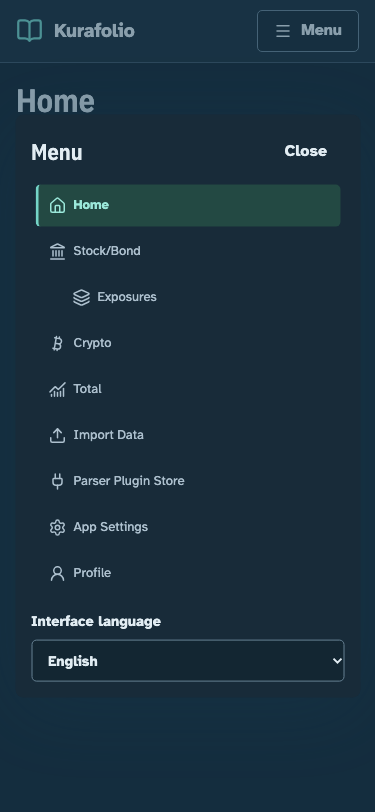
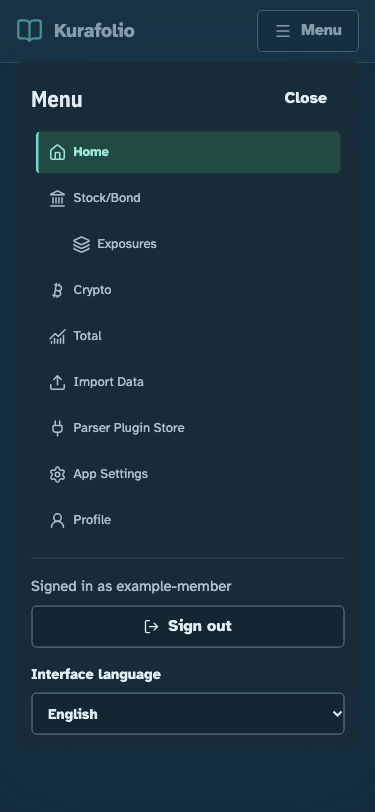
docs: refresh V2 shell screenshots and document the identity pages

diff --git a/docs/capability-status.md b/docs/capability-status.md
@@ -20,7 +20,7 @@ for a documentation change. See [TODO](../TODO.md) for remaining work and
 | UX-P0 | First-use guidance, evidence status/actions and staged import/recovery merged through PR #13: [onboarding tests](../frontend/tests/browser/onboarding.spec.ts), [status tests](../frontend/tests/browser/evidence-status.spec.ts), [import tests](../frontend/tests/browser/import-review.spec.ts), [ticket index](product-ux-review.md). | These bounded slices do not complete the whole UX redesign, numeric BTC-gap/coverage models or every future source-capability view. Deployment is a separate operator action. |
 | Operations/distribution | Source-built Docker context, isolated jobs, full backup/empty-target restore and trusted-host adoption: [context helper](../scripts/docker_context.py), [backup tests](../tests/test_web_backups.py), [operations acceptance](web-release-acceptance.md). | Public prebuilt multi-architecture images/pull-only distribution (WEB-008) remain planned. A source build or local smoke check is not a public registry release or real-instance upgrade. |
 | Optional PG foundation | Explicit candidate repositories, SQL precision/RLS/FKs, atomic receipt/outbox, leases/fencing and operator migrations: [contract](postgres-foundation.md), [repositories](../src/kurafolio/persistence/repositories.py), [tests](../tests/test_postgres_migrations.py). | Opt-in development infrastructure. Current Web/CLI remain SQLite; no authenticated registration, financial booking/valuation, provider cursor, full app recovery or personal migration is activated. Real-PG tests require explicit isolated configuration; skipped tests are not acceptance. |
-| Optional V2 identity | Protected setup/invitation/authentication backend and own-scope candidate/job reads, merged through [PR #19](https://github.com/gh-slee/kurafolio/pull/19): [operator/API contract](web-v2-identity.md), [SQL tests](../tests/test_identity_transactions.py), [HTTP tests](../tests/test_web_v2_api.py). | Opt-in backend; the existing Web/CLI remain on SQLite. Setup/invitation UI remains WL-P0-011. No financial import/export service or existing-data migration is activated. |
+| Optional V2 identity | Protected setup/invitation/authentication backend and own-scope candidate/job reads, merged through [PR #19](https://github.com/gh-slee/kurafolio/pull/19): [operator/API contract](web-v2-identity.md), [SQL tests](../tests/test_identity_transactions.py), [HTTP tests](../tests/test_web_v2_api.py). | Opt-in backend; the existing Web/CLI remain on SQLite. Browser setup, registration, sign-in and invitation pages: WL-P0-011B; telling an inactive invitation from a taken username: WL-P0-011I. No financial import/export service or existing-data migration is activated. |
 | Market quotes | Quote adapter contract, deterministic fake provider, per-instance cache and rate limit, stale/unavailable fallback, operator configuration (off by default) and the optional unofficial Yahoo chart adapter for Toronto and US listings: [operator guide](market-data.md), [contract](../src/kurafolio/market/contract.py), [tests](../tests/test_market_quotes.py). | The unofficial adapter can break without notice and its terms of use are the operator's responsibility. Nothing reads the configuration until WL-P0-009B adds storage, scheduling and the Refresh route; an official keyed provider is WL-P0-009E. |
 | Development roles | Four repository role skills and human-operated [SDD workflow](spec-development.md); [discovery/privacy guide](agent-development.md). | Skills are optional development guidance, never runtime dependencies. Adoption/discovery does not dispatch agents, approve another spec, or prove independent QA. |
 

diff --git a/docs/web-frontend.md b/docs/web-frontend.md
@@ -54,9 +54,35 @@ those states. Stock/Bond, Exposures and Crypto offer "Enable a source" until
 the WL-P0-008 positions contract lets the shell detect holdings. All eight
 destinations stay in the navigation either way.
 
+### V2 sign-in, setup and invitations
+
+After the probe, the V2 app reads `GET /api/v2/me`. Without a session, every
+`/app` route goes to `/login`. `/setup?token=…` creates the first administrator
+and `/register?token=…` redeems an invitation; both read the token once and
+remove it from the address bar, then send the person to sign-in. The
+administrator manages invitations on Profile: a new invitation's link is shown
+once, kept only in that page's memory, and never saved in browser storage.
+Members never request the admin routes.
+
+The V2 client in `frontend/src/v2/api.ts` keeps the CSRF token in memory and
+gets a new one when the server clears the session cookie. Signing out, a
+session the server ended, or another user signing in aborts open requests and
+clears the query cache before the next page renders. Error codes are mapped to
+messages and never shown. Password reset and account enable or disable remain
+host commands ([V2 identity](web-v2-identity.md)).
+
+The registration API answers an expired, revoked or used invitation and a
+taken username with the same code after submit, so the page names both
+causes in one message. WL-P0-011I tracks telling them apart.
+
+The browser specs intercept `/api/v2` with a stateful synthetic fake. The
+SQLite fixture serves the bundle only at `/` and `/login`, so
+`v2-identity.spec.ts` answers `/setup` and `/register` with the same document,
+as the V2 server does.
+
 ```bash
 npm --prefix frontend run build
-npm --prefix frontend run test:e2e -- v2-shell.spec.ts
+npm --prefix frontend run test:e2e -- v2-shell.spec.ts v2-identity.spec.ts
 ```
 
 ## Daily use

diff --git a/README.md b/README.md
@@ -361,16 +361,18 @@ reports and saved PNG charts keep their publication styling.
 <details>
 <summary><strong>V2 preview — the eight-destination shell in development</strong></summary>
 
-<img src="assets/readme/web-v2-shell.png" width="1200" alt="V2 shell on a wide screen with eight destinations in the sidebar, Exposures nested under Stock/Bond, and a Stock/Bond page offering to enable a source">
+<img src="assets/readme/web-v2-shell.png" width="1200" alt="V2 shell on a wide screen with eight destinations in the sidebar, Exposures nested under Stock/Bond, the signed-in account with Sign out, and a Stock/Bond page offering to enable a source">
 
-<img src="assets/readme/web-v2-shell-phone.png" width="375" alt="V2 shell at phone width in dark mode with the compact bar and the open destination menu">
+<img src="assets/readme/web-v2-shell-phone.png" width="375" alt="V2 shell at phone width in dark mode with the compact bar and the open destination menu, including the signed-in account and Sign out">
 
 The V2 application is in development and not yet the default. Its shell has eight
 destinations, with Exposures under Stock/Bond. On a phone, one compact bar opens a
 menu with every destination. These pages are placeholders: the screenshots contain
 no finance data. Stock/Bond, Exposures and Crypto always offer to enable a source until
 the positions read contract (WL-P0-008) lets the shell detect holdings.
-The same bundle opens this shell only when the server is a V2 instance.
+The same bundle opens this shell only when the server is a V2 instance. Signing in,
+first setup, invitation registration and the administrator's invitation list on
+Profile are browser pages too, so a new user needs no terminal.
 
 </details>
 

diff --git a/docs/web-v2-identity.md b/docs/web-v2-identity.md
@@ -2,9 +2,10 @@
 
 This separate backend was merged in [PR #19](https://github.com/gh-slee/kurafolio/pull/19).
 It is opt-in development infrastructure, not an upgrade path for the existing SQLite Web App. Do not change a running ledger's
-entry point or database to try it. The setup wizard, registration UI and invitation
-pages belong to a later frontend slice; no V2 financial import/export service is
-claimed here. See [capabilities](capability-status.md) and [the PG foundation](postgres-foundation.md).
+entry point or database to try it. The browser pages for first setup, invitation
+registration, sign-in and invitation management are described in
+[the frontend guide](web-frontend.md#v2-sign-in-setup-and-invitations); no V2
+financial import/export service is claimed here. See [capabilities](capability-status.md) and [the PG foundation](postgres-foundation.md).
 
 ## Model and trust boundary
 

diff --git a/assets/readme/README.md b/assets/readme/README.md
@@ -92,7 +92,8 @@ Use `node frontend/scripts/capture-readme.mjs --imports-only` for only
 Use `node frontend/scripts/capture-readme.mjs --v2-shell-only` for only the two
 `web-v2-shell*.png` images, with receipt `work/readme-capture/v2-shell-provenance.json`.
 The fixture is a SQLite instance, so this mode answers only the V2 startup probe with
-a synthetic token; the placeholder pages request no finance data.
+a synthetic token and the session read with a synthetic member; the placeholder
+pages request no finance data.
 
 The four selective modes are mutually exclusive; no URL, portfolio or source-file
 arguments are accepted. None of these modes submits financial input. The first-run mode never creates financial records in
